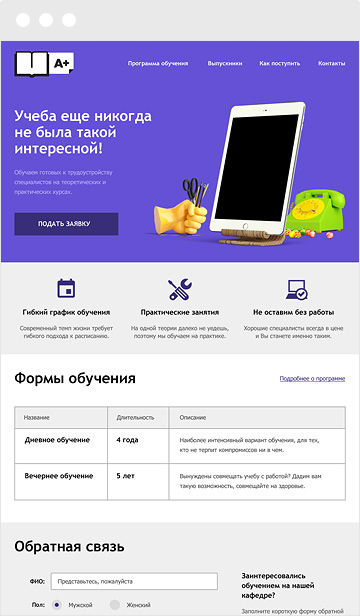
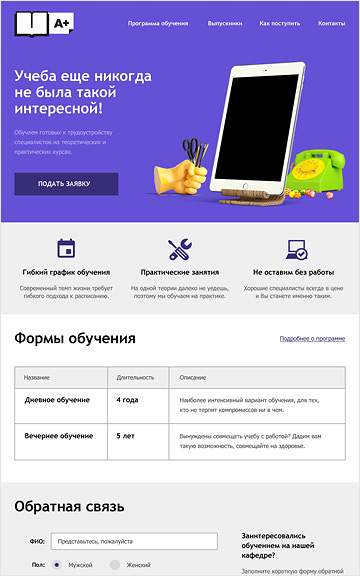
работа над превью

diff --git a/catalog.html b/catalog.html
@@ -96,7 +96,12 @@
           </ul>
           <section class="catalog-preview">
             <div class="catalog-preview__elem catalog-preview__elem--sedona">
-              <img src="img/sedona.jpg" alt="sedona" width="360" height="616">
+              <div class="catalog-preview__browser">
+                <div class="catalog-preview__browser-round"></div>
+                <div class="catalog-preview__browser-round"></div>
+                <div class="catalog-preview__browser-round"></div>
+              </div>
+              <img src="img/sedona.jpg" alt="sedona" width="360" height="575">
               <div class="catalog-preview-hover">
                 <p class="catalog-preview-hover__title">sedona</p>
                 <p class="catalog-preview-hover__info">Информационный сайт для туристов</p>
@@ -104,7 +109,12 @@
               </div>
             </div>
             <div class="catalog-preview__elem catalog-preview__elem--pink">
-              <img src="img/pink.jpg" alt="pink" width="360" height="616">
+              <div class="catalog-preview__browser">
+                <div class="catalog-preview__browser-round"></div>
+                <div class="catalog-preview__browser-round"></div>
+                <div class="catalog-preview__browser-round"></div>
+              </div>
+              <img src="img/pink.jpg" alt="pink" width="360" height="575">
               <div class="catalog-preview-hover">
                 <p class="catalog-preview-hover__title">pink app</p>
                 <p class="catalog-preview-hover__info">Продуктовый лендинг приложения для iOS и Android</p>
@@ -112,7 +122,12 @@
               </div>
             </div>
             <div class="catalog-preview__elem catalog-preview__elem--barbershop">
-              <img src="img/barbershop.jpg" alt="barbershop" width="360" height="616">
+              <div class="catalog-preview__browser">
+                <div class="catalog-preview__browser-round"></div>
+                <div class="catalog-preview__browser-round"></div>
+                <div class="catalog-preview__browser-round"></div>
+              </div>
+              <img src="img/barbershop.jpg" alt="barbershop" width="360" height="575">
               <div class="catalog-preview-hover">
                 <p class="catalog-preview-hover__title">barbershop</p>
                 <p class="catalog-preview-hover__info">Сайт салоны красоты. Для мужчин, да.</p>
@@ -120,7 +135,12 @@
               </div>
             </div>
             <div class="catalog-preview__elem catalog-preview__elem--mishka">
-              <img src="img/mishka.jpg" alt="mishka" width="360" height="616">
+              <div class="catalog-preview__browser">
+                <div class="catalog-preview__browser-round"></div>
+                <div class="catalog-preview__browser-round"></div>
+                <div class="catalog-preview__browser-round"></div>
+              </div>
+              <img src="img/mishka.jpg" alt="mishka" width="360" height="575">
               <div class="catalog-preview-hover">
                 <p class="catalog-preview-hover__title">mishka</p>
                 <p class="catalog-preview-hover__info">Интернет-магазин вязаных игрушек</p>
@@ -128,7 +148,12 @@
               </div>
             </div>
             <div class="catalog-preview__elem catalog-preview__elem--aplus">
-              <img src="img/aplus.jpg" alt="aplus" width="360" height="616">
+              <div class="catalog-preview__browser">
+                <div class="catalog-preview__browser-round"></div>
+                <div class="catalog-preview__browser-round"></div>
+                <div class="catalog-preview__browser-round"></div>
+              </div>
+              <img src="img/aplus.jpg" alt="aplus" width="360" height="575">
               <div class="catalog-preview-hover">
                 <p class="catalog-preview-hover__title">a plus</p>
                 <p class="catalog-preview-hover__info">Лендинг курсов повышения квалификации</p>
@@ -136,7 +161,12 @@
               </div>
             </div>
             <div class="catalog-preview__elem catalog-preview__elem--beer">
-              <img src="img/beer.jpg" alt="beer" width="360" height="616">
+              <div class="catalog-preview__browser">
+                <div class="catalog-preview__browser-round"></div>
+                <div class="catalog-preview__browser-round"></div>
+                <div class="catalog-preview__browser-round"></div>
+              </div>
+              <img src="img/beer.jpg" alt="beer" width="360" height="575">
               <div class="catalog-preview-hover">
                 <p class="catalog-preview-hover__title">кваст</p>
                 <p class="catalog-preview-hover__info">Промо-сайт производителя крафтового кваса</p>

diff --git a/css/style.css b/css/style.css
@@ -1039,6 +1039,37 @@ a.sort-updown:focus {
   height: 616px;
 }
 
+.catalog-preview__elem:hover {
+  box-shadow: 0 6px 15px 0 rgba(0, 1, 1, 0.25);
+ 
+}
+
+
+.catalog-preview__browser {
+  height: 40px;
+  width: 100%;
+  background-color: #4d4d4d;
+  opacity: 0.12;
+  display: flex;
+  align-items: center;
+  padding-left: 15px;
+  box-sizing: border-box;
+  border-top-left-radius: 2px;
+  border-top-right-radius: 2px;
+}
+
+.catalog-preview__browser:hover {
+  opacity: 1;
+}
+
+.catalog-preview__browser-round {
+  width: 15px;
+  height: 15px;
+ background-color: #ffffff;
+  border-radius: 50%;
+  margin-right: 7px;
+}
+
 .catalog-preview-hover {
   display: flex;
   flex-wrap: wrap;
